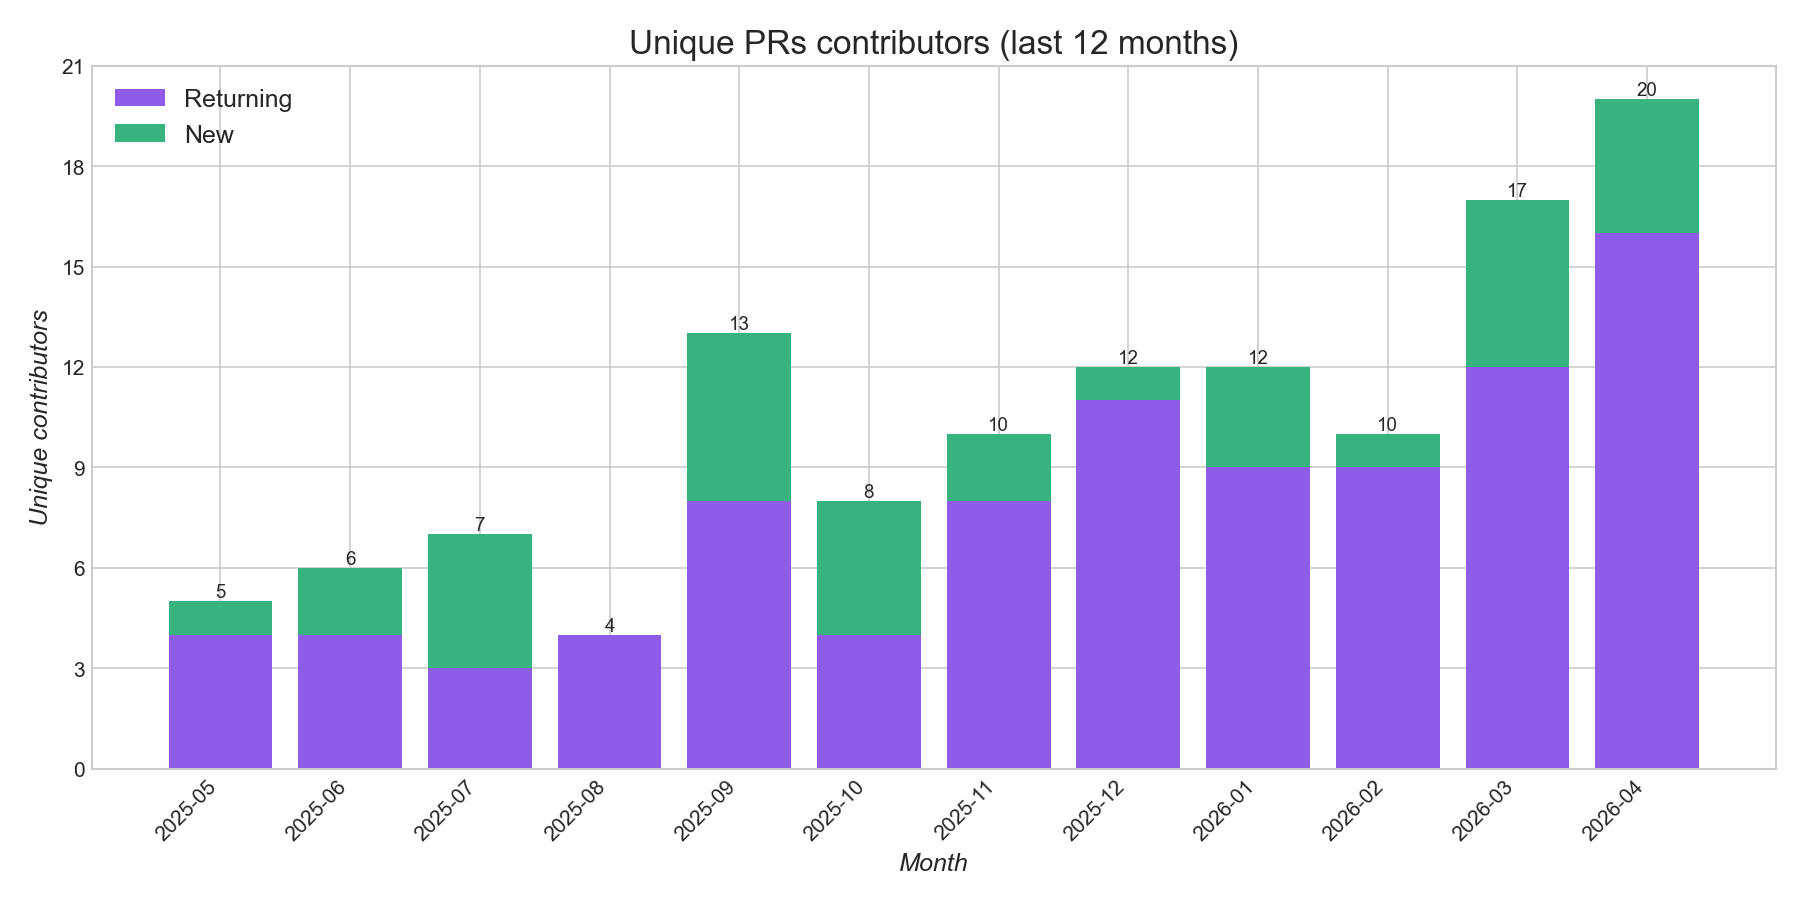
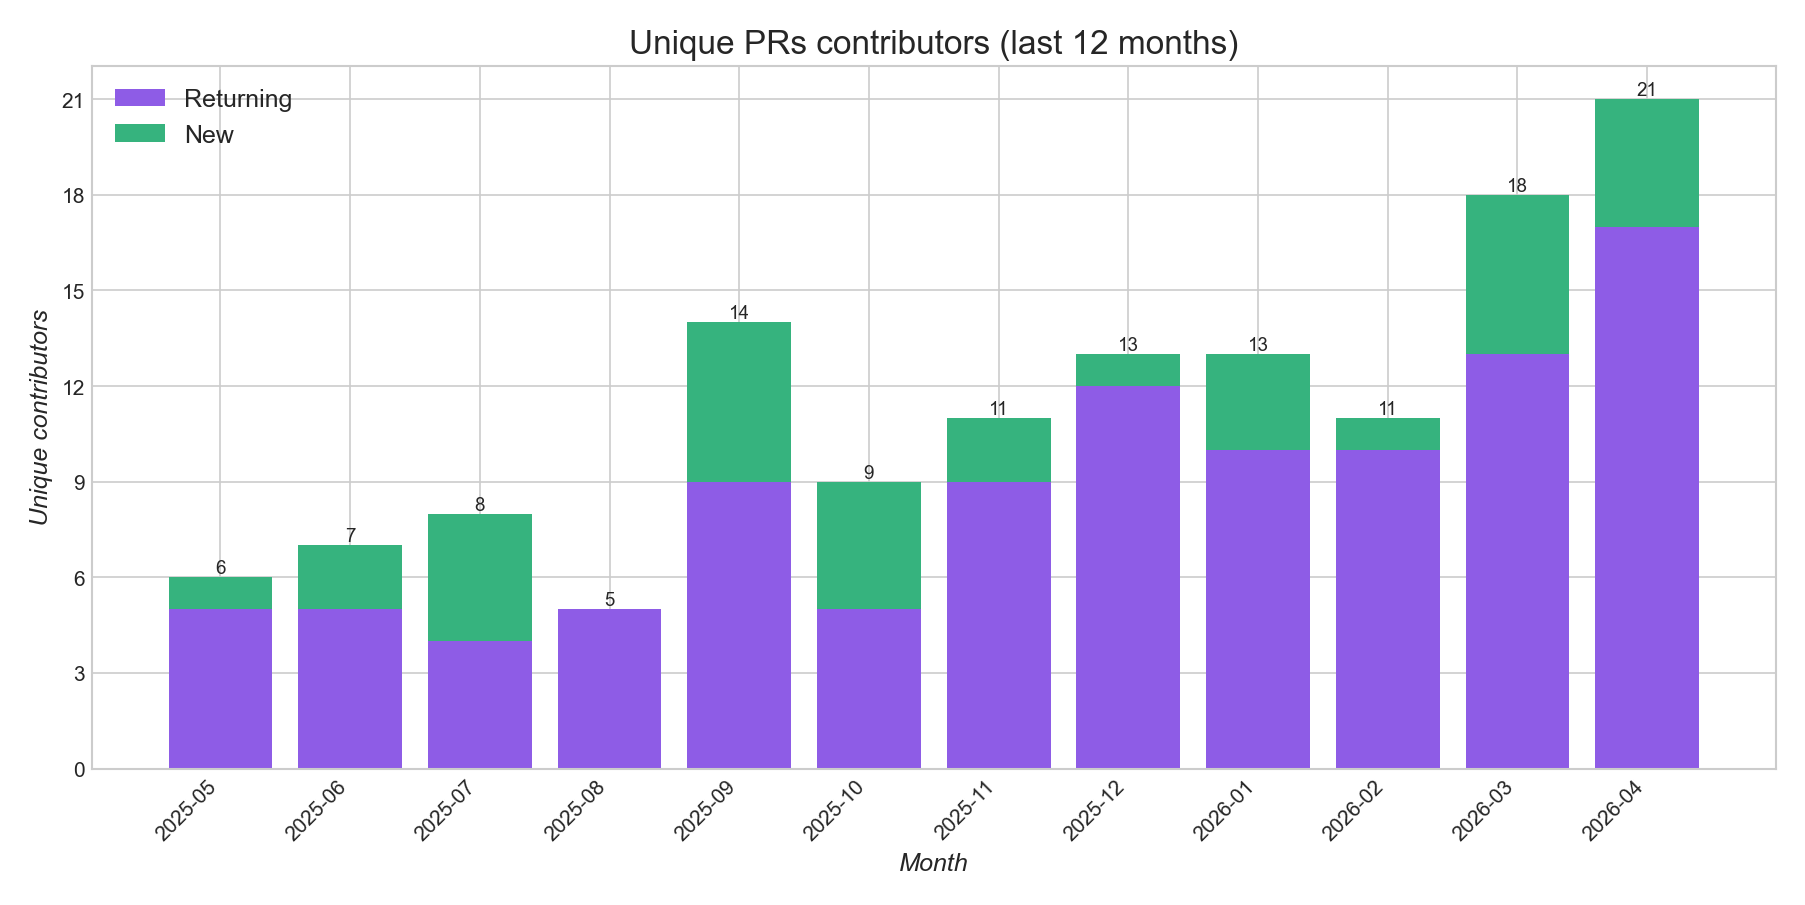
Regenerate all charts with bots included

diff --git a/trends/vector.md b/trends/vector.md
@@ -80,14 +80,14 @@
 | Year | Unique | New | Returning |
 |------|--------|-----|-----------|
 | 2018 | 2 | 2 | 0 |
-| 2019 | 45 | 43 | 2 |
-| 2020 | 87 | 74 | 13 |
-| 2021 | 123 | 94 | 29 |
-| 2022 | 142 | 109 | 33 |
-| 2023 | 153 | 110 | 43 |
-| 2024 | 177 | 130 | 47 |
-| 2025 | 191 | 144 | 47 |
-| 2026 (YTD, 4mo) | 112 | 72 | 40 |
+| 2019 | 46 | 44 | 2 |
+| 2020 | 89 | 75 | 14 |
+| 2021 | 124 | 94 | 30 |
+| 2022 | 143 | 109 | 34 |
+| 2023 | 154 | 110 | 44 |
+| 2024 | 179 | 131 | 48 |
+| 2025 | 192 | 144 | 48 |
+| 2026 (YTD, 4mo) | 115 | 74 | 41 |
 
 <!-- AUTO:yearly-contributors:end -->
 

diff --git a/trends/quickwit.md b/trends/quickwit.md
@@ -55,11 +55,11 @@
 | Year | Unique | New | Returning |
 |------|--------|-----|-----------|
 | 2021 | 12 | 12 | 0 |
-| 2022 | 30 | 24 | 6 |
-| 2023 | 38 | 27 | 11 |
-| 2024 | 36 | 27 | 9 |
-| 2025 | 30 | 22 | 8 |
-| 2026 (YTD, 4mo) | 27 | 13 | 14 |
+| 2022 | 31 | 25 | 6 |
+| 2023 | 39 | 27 | 12 |
+| 2024 | 37 | 27 | 10 |
+| 2025 | 31 | 22 | 9 |
+| 2026 (YTD, 4mo) | 28 | 13 | 15 |
 
 <!-- AUTO:yearly-contributors:end -->
 

diff --git a/trends/vrl.md b/trends/vrl.md
@@ -54,10 +54,10 @@
 
 | Year | Unique | New | Returning |
 |------|--------|-----|-----------|
-| 2023 | 26 | 26 | 0 |
-| 2024 | 30 | 26 | 4 |
-| 2025 | 29 | 23 | 6 |
-| 2026 (YTD, 4mo) | 12 | 9 | 3 |
+| 2023 | 27 | 27 | 0 |
+| 2024 | 31 | 26 | 5 |
+| 2025 | 31 | 24 | 7 |
+| 2026 (YTD, 4mo) | 14 | 9 | 5 |
 
 <!-- AUTO:yearly-contributors:end -->
 
